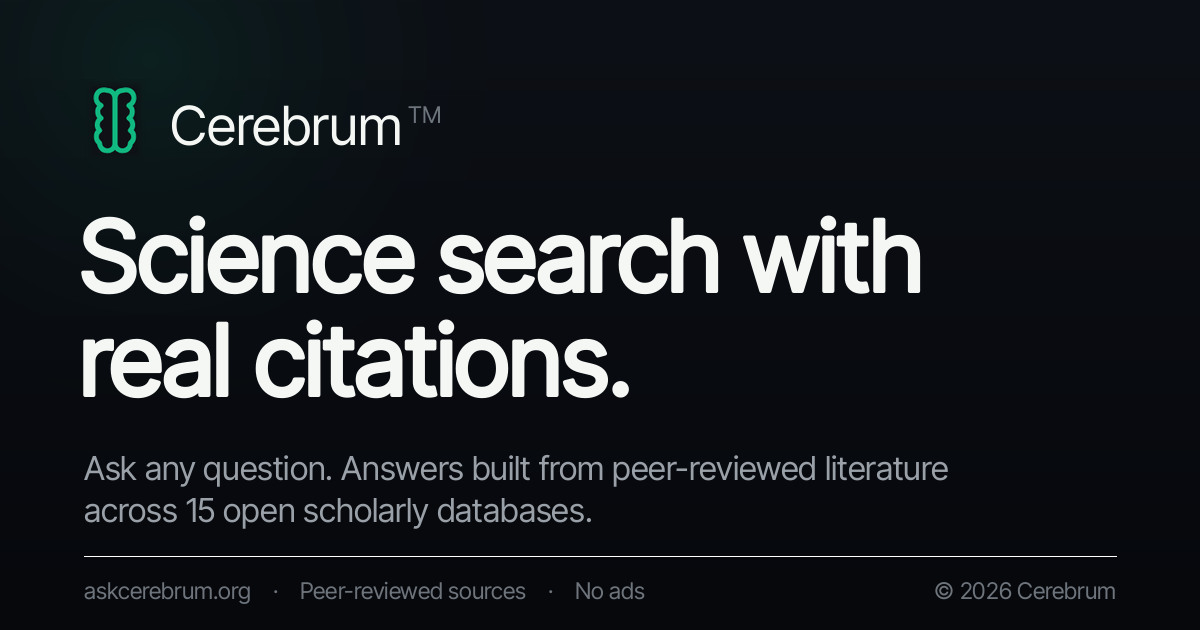
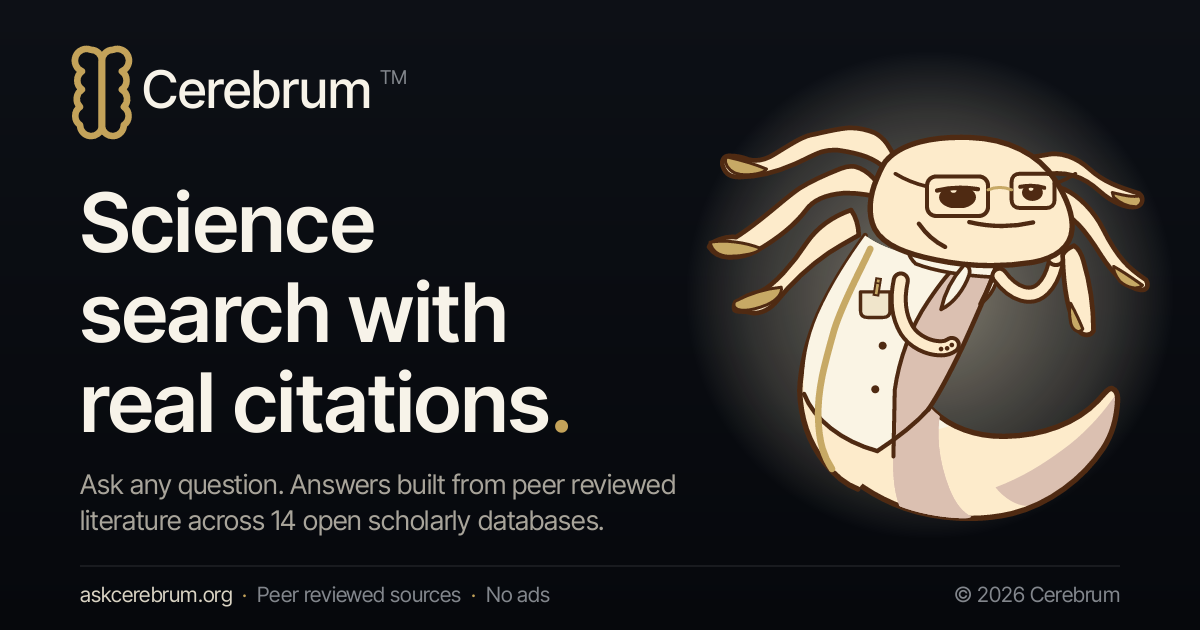
Link preview card redesigned: Nova in coat and glasses beside the headline, honest 14 sources, cache buster bumped

diff --git a/index.html b/index.html
@@ -87,17 +87,17 @@
     <!-- ?v= cache-buster: bump it whenever public/og-image.png is redrawn,
          or edges and scrapers keep serving the old art (seen 2026-09-12,
          when a stale "16 databases" card survived the "15" fix). -->
-    <meta property="og:image" content="https://askcerebrum.org/og-image.png?v=20260912" />
+    <meta property="og:image" content="https://askcerebrum.org/og-image.png?v=20261015" />
     <meta property="og:image:width" content="1200" />
     <meta property="og:image:height" content="630" />
-    <meta property="og:image:alt" content="Cerebrum · scientific literature search" />
+    <meta property="og:image:alt" content="Cerebrum · scientific literature search, with Nova the axolotl mascot" />
     <meta property="og:locale" content="en_US" />
 
     <!-- Twitter / X -->
     <meta name="twitter:card" content="summary_large_image" />
     <meta name="twitter:title" content="Cerebrum · Free Scientific Literature Search" />
     <meta name="twitter:description" content="Ask a research question. Get answers from 14 open scholarly databases, every claim linked to a real paper." />
-    <meta name="twitter:image" content="https://askcerebrum.org/og-image.png?v=20260912" />
+    <meta name="twitter:image" content="https://askcerebrum.org/og-image.png?v=20261015" />
 
     <!-- Structured data: identifies Cerebrum as a legitimate WebSite + SearchAction
          in the Educational / Reference category. Reputation systems use this to
@@ -115,7 +115,7 @@
         "@type": "Organization",
         "name": "Cerebrum",
         "url": "https://askcerebrum.org/",
-        "logo": "https://askcerebrum.org/og-image.png?v=20260912"
+        "logo": "https://askcerebrum.org/og-image.png?v=20261015"
       },
       "potentialAction": {
         "@type": "SearchAction",
